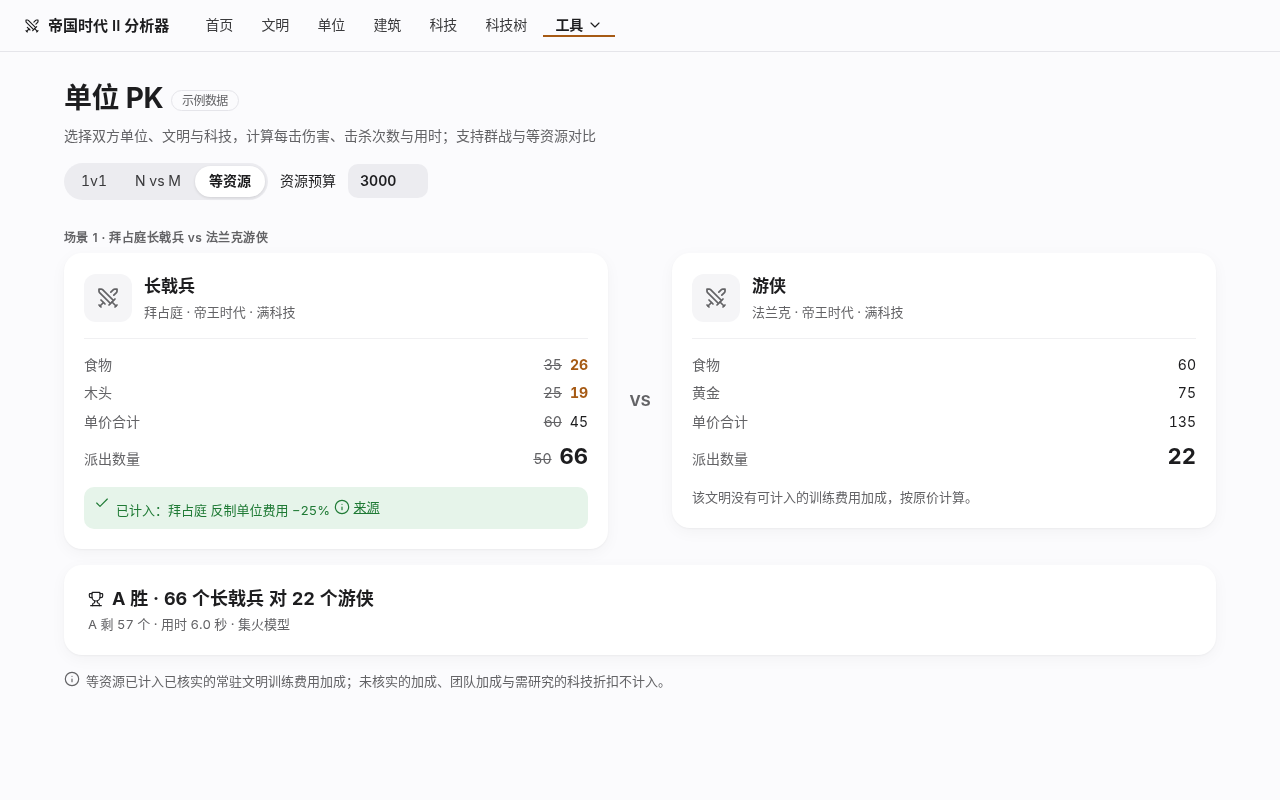
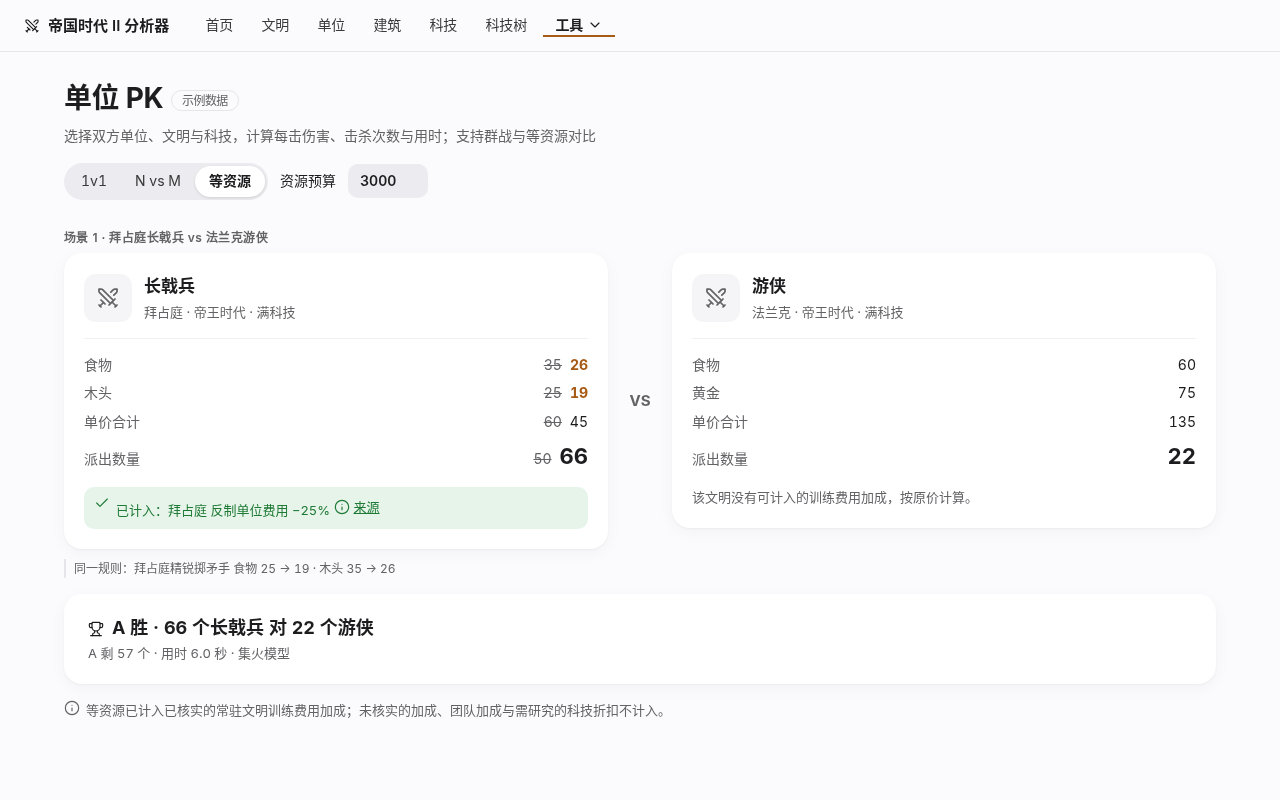
design(#24,#25): settle rounding — half-up, displayed price = computed price; .5 cases unverified → 未计入

Changed region(s): [[0.0625, 0.6875, 0.5, 0.9062]]

diff --git a/docs/design/mockups/issue24-v3/discount.html b/docs/design/mockups/issue24-v3/discount.html
@@ -31,4 +31,4 @@ table{width:100%;border-collapse:collapse;margin-top:16px;font-size:14px}th{text
 </style><style>.app{margin-top:10px;font-size:13px;display:flex;gap:6px;align-items:flex-start;background:#e6f4ea;color:#1f7a35;border-radius:10px;padding:8px 10px}.app a{color:#1f7a35;text-decoration:underline;display:inline-flex;gap:4px;align-items:center;min-height:24px}
 .na{margin-top:8px;font-size:13px;color:#3a3a3c;display:flex;gap:6px;align-items:flex-start;background:#f5f5f7;border-radius:10px;padding:8px 10px}.na small{display:block;color:#636366;font-size:12px}
 .pop h4{font-size:12px;color:#636366;margin:8px 0 4px;font-weight:600}.pop .it{display:flex;gap:6px;padding:4px 0}.pop .it small{display:block;color:#636366;font-size:12px}.pop .lk{display:inline-flex;gap:4px;align-items:center;margin-top:8px;min-height:44px}
-.stale{opacity:.45;filter:grayscale(1)}.stbar{display:flex;gap:8px;align-items:center;justify-content:space-between;background:#f5f5f7;border-radius:12px;padding:10px 14px;margin-top:16px;font-size:14px;color:#3a3a3c;flex-wrap:wrap}</style><body><header class=top><button class=burger><svg xmlns="http://www.w3.org/2000/svg" class="lu" viewBox="0 0 24 24" fill="none" stroke="currentColor" stroke-width="1.75" stroke-linecap="round" stroke-linejoin="round" class="lucide lucide-menu" aria-hidden="true"><path d="M4 5h16"></path><path d="M4 12h16"></path><path d="M4 19h16"></path></svg></button><span class=brand><svg xmlns="http://www.w3.org/2000/svg" class="lu" viewBox="0 0 24 24" fill="none" stroke="currentColor" stroke-width="1.75" stroke-linecap="round" stroke-linejoin="round" class="lucide lucide-swords" aria-hidden="true"><path d="m13 19 6-6"></path><path d="M14.5 17.5 3.586 6.586A2 2 0 013 5.172V3h2.172a2 2 0 011.414.586L17.5 14.5"></path><path d="m14.828 6.172 2.586-2.586A2 2 0 0118.828 3H21v2.172a2 2 0 01-.586 1.414l-2.586 2.586"></path><path d="m16 16 4 4"></path><path d="m19 21 2-2"></path><path d="m5 14 4 4"></path><path d="m5 21-2-2"></path><path d="M7.5 16.5 4 20"></path></svg>帝国时代 II 分析器</span><nav class=nav><a>首页</a><a>文明</a><a>单位</a><a>建筑</a><a>科技</a><a>科技树</a><a class=on>工具 <svg xmlns="http://www.w3.org/2000/svg" class="lu" viewBox="0 0 24 24" fill="none" stroke="currentColor" stroke-width="1.75" stroke-linecap="round" stroke-linejoin="round" class="lucide lucide-chevron-down" aria-hidden="true"><path d="m6 9 6 6 6-6"></path></svg></a></nav></header><main><h1>单位 PK<span class=ex>示例数据</span></h1><p class=desc>选择双方单位、文明与科技，计算每击伤害、击杀次数与用时；支持群战与等资源对比</p><div class=bar><span class=seg><span class="">1v1</span><span class="">N vs M</span><span class="on">等资源</span></span><span>资源预算</span><span class=inp>3000</span></div><p class=lbl>场景 1 · 拜占庭长戟兵 vs 法兰克游侠</p><div class=sides><div class=side><div class=sh><div class=ui><svg xmlns="http://www.w3.org/2000/svg" class="lu" viewBox="0 0 24 24" fill="none" stroke="currentColor" stroke-width="1.75" stroke-linecap="round" stroke-linejoin="round" class="lucide lucide-swords" aria-hidden="true"><path d="m13 19 6-6"></path><path d="M14.5 17.5 3.586 6.586A2 2 0 013 5.172V3h2.172a2 2 0 011.414.586L17.5 14.5"></path><path d="m14.828 6.172 2.586-2.586A2 2 0 0118.828 3H21v2.172a2 2 0 01-.586 1.414l-2.586 2.586"></path><path d="m16 16 4 4"></path><path d="m19 21 2-2"></path><path d="m5 14 4 4"></path><path d="m5 21-2-2"></path><path d="M7.5 16.5 4 20"></path></svg></div><div><h3>长戟兵</h3><small>拜占庭 · 帝王时代 · 满科技</small></div></div><div class=cost><div class=r><span class=k>食物</span><span><span class=old>35</span><span class=new>26</span></span></div><div class=r><span class=k>木头</span><span><span class=old>25</span><span class=new>19</span></span></div><div class=r><span class=k>单价合计</span><span><span class=old>60</span>45</span></div><div class=r><span class=k>派出数量</span><span><span class=old>50</span><b class=big>66</b></span></div></div><div class=app><svg xmlns="http://www.w3.org/2000/svg" class="lu" viewBox="0 0 24 24" fill="none" stroke="currentColor" stroke-width="1.75" stroke-linecap="round" stroke-linejoin="round" class="lucide lucide-check" aria-hidden="true"><path d="M20 6 9 17l-5-5"></path></svg><span>已计入：拜占庭 反制单位费用 −25% <a><svg xmlns="http://www.w3.org/2000/svg" class="lu" viewBox="0 0 24 24" fill="none" stroke="currentColor" stroke-width="1.75" stroke-linecap="round" stroke-linejoin="round" class="lucide lucide-info" aria-hidden="true"><circle cx="12" cy="12" r="10"></circle><path d="M12 16v-4"></path><path d="M12 8h.01"></path></svg>来源</a></span></div></div><div class=vs>VS</div><div class=side><div class=sh><div class=ui><svg xmlns="http://www.w3.org/2000/svg" class="lu" viewBox="0 0 24 24" fill="none" stroke="currentColor" stroke-width="1.75" stroke-linecap="round" stroke-linejoin="round" class="lucide lucide-swords" aria-hidden="true"><path d="m13 19 6-6"></path><path d="M14.5 17.5 3.586 6.586A2 2 0 013 5.172V3h2.172a2 2 0 011.414.586L17.5 14.5"></path><path d="m14.828 6.172 2.586-2.586A2 2 0 0118.828 3H21v2.172a2 2 0 01-.586 1.414l-2.586 2.586"></path><path d="m16 16 4 4"></path><path d="m19 21 2-2"></path><path d="m5 14 4 4"></path><path d="m5 21-2-2"></path><path d="M7.5 16.5 4 20"></path></svg></div><div><h3>游侠</h3><small>法兰克 · 帝王时代 · 满科技</small></div></div><div class=cost><div class=r><span class=k>食物</span><span>60</span></div><div class=r><span class=k>黄金</span><span>75</span></div><div class=r><span class=k>单价合计</span><span>135</span></div><div class=r><span class=k>派出数量</span><span><b class=big>22</b></span></div></div><div class=none>该文明没有可计入的训练费用加成，按原价计算。</div></div></div><div class=res><h3><svg xmlns="http://www.w3.org/2000/svg" class="lu" viewBox="0 0 24 24" fill="none" stroke="currentColor" stroke-width="1.75" stroke-linecap="round" stroke-linejoin="round" class="lucide lucide-trophy" aria-hidden="true"><path d="M10 14.66V17a1 1 0 0 1-1 1 2 2 0 0 0-2 2v2"></path><path d="M14 14.66V17a1 1 0 0 0 1 1 2 2 0 0 1 2 2v2"></path><path d="M17.916 10H19.5A2.5 2.5 0 0 0 22 7.5V5a1 1 0 0 0-1-1h-3"></path><path d="M4 22h16"></path><path d="M6 9a6 6 0 0 0 12 0V3a1 1 0 0 0-1-1H7a1 1 0 0 0-1 1z"></path><path d="M6.084 10H4.5A2.5 2.5 0 0 1 2 7.5V5a1 1 0 0 1 1-1h3"></path></svg>A 胜 · 66 个长戟兵 对 22 个游侠</h3><p class=note>A 剩 57 个 · 用时 6.0 秒 · 集火模型</p></div><div class=foot><svg xmlns="http://www.w3.org/2000/svg" class="lu" viewBox="0 0 24 24" fill="none" stroke="currentColor" stroke-width="1.75" stroke-linecap="round" stroke-linejoin="round" class="lucide lucide-info" aria-hidden="true"><circle cx="12" cy="12" r="10"></circle><path d="M12 16v-4"></path><path d="M12 8h.01"></path></svg><span>等资源已计入已核实的常驻文明训练费用加成；未核实的加成、团队加成与需研究的科技折扣不计入。</span></div></main>
+.stale{opacity:.45;filter:grayscale(1)}.stbar{display:flex;gap:8px;align-items:center;justify-content:space-between;background:#f5f5f7;border-radius:12px;padding:10px 14px;margin-top:16px;font-size:14px;color:#3a3a3c;flex-wrap:wrap}</style><body><header class=top><button class=burger><svg xmlns="http://www.w3.org/2000/svg" class="lu" viewBox="0 0 24 24" fill="none" stroke="currentColor" stroke-width="1.75" stroke-linecap="round" stroke-linejoin="round" class="lucide lucide-menu" aria-hidden="true"><path d="M4 5h16"></path><path d="M4 12h16"></path><path d="M4 19h16"></path></svg></button><span class=brand><svg xmlns="http://www.w3.org/2000/svg" class="lu" viewBox="0 0 24 24" fill="none" stroke="currentColor" stroke-width="1.75" stroke-linecap="round" stroke-linejoin="round" class="lucide lucide-swords" aria-hidden="true"><path d="m13 19 6-6"></path><path d="M14.5 17.5 3.586 6.586A2 2 0 013 5.172V3h2.172a2 2 0 011.414.586L17.5 14.5"></path><path d="m14.828 6.172 2.586-2.586A2 2 0 0118.828 3H21v2.172a2 2 0 01-.586 1.414l-2.586 2.586"></path><path d="m16 16 4 4"></path><path d="m19 21 2-2"></path><path d="m5 14 4 4"></path><path d="m5 21-2-2"></path><path d="M7.5 16.5 4 20"></path></svg>帝国时代 II 分析器</span><nav class=nav><a>首页</a><a>文明</a><a>单位</a><a>建筑</a><a>科技</a><a>科技树</a><a class=on>工具 <svg xmlns="http://www.w3.org/2000/svg" class="lu" viewBox="0 0 24 24" fill="none" stroke="currentColor" stroke-width="1.75" stroke-linecap="round" stroke-linejoin="round" class="lucide lucide-chevron-down" aria-hidden="true"><path d="m6 9 6 6 6-6"></path></svg></a></nav></header><main><h1>单位 PK<span class=ex>示例数据</span></h1><p class=desc>选择双方单位、文明与科技，计算每击伤害、击杀次数与用时；支持群战与等资源对比</p><div class=bar><span class=seg><span class="">1v1</span><span class="">N vs M</span><span class="on">等资源</span></span><span>资源预算</span><span class=inp>3000</span></div><p class=lbl>场景 1 · 拜占庭长戟兵 vs 法兰克游侠</p><div class=sides><div class=side><div class=sh><div class=ui><svg xmlns="http://www.w3.org/2000/svg" class="lu" viewBox="0 0 24 24" fill="none" stroke="currentColor" stroke-width="1.75" stroke-linecap="round" stroke-linejoin="round" class="lucide lucide-swords" aria-hidden="true"><path d="m13 19 6-6"></path><path d="M14.5 17.5 3.586 6.586A2 2 0 013 5.172V3h2.172a2 2 0 011.414.586L17.5 14.5"></path><path d="m14.828 6.172 2.586-2.586A2 2 0 0118.828 3H21v2.172a2 2 0 01-.586 1.414l-2.586 2.586"></path><path d="m16 16 4 4"></path><path d="m19 21 2-2"></path><path d="m5 14 4 4"></path><path d="m5 21-2-2"></path><path d="M7.5 16.5 4 20"></path></svg></div><div><h3>长戟兵</h3><small>拜占庭 · 帝王时代 · 满科技</small></div></div><div class=cost><div class=r><span class=k>食物</span><span><span class=old>35</span><span class=new>26</span></span></div><div class=r><span class=k>木头</span><span><span class=old>25</span><span class=new>19</span></span></div><div class=r><span class=k>单价合计</span><span><span class=old>60</span>45</span></div><div class=r><span class=k>派出数量</span><span><span class=old>50</span><b class=big>66</b></span></div></div><div class=app><svg xmlns="http://www.w3.org/2000/svg" class="lu" viewBox="0 0 24 24" fill="none" stroke="currentColor" stroke-width="1.75" stroke-linecap="round" stroke-linejoin="round" class="lucide lucide-check" aria-hidden="true"><path d="M20 6 9 17l-5-5"></path></svg><span>已计入：拜占庭 反制单位费用 −25% <a><svg xmlns="http://www.w3.org/2000/svg" class="lu" viewBox="0 0 24 24" fill="none" stroke="currentColor" stroke-width="1.75" stroke-linecap="round" stroke-linejoin="round" class="lucide lucide-info" aria-hidden="true"><circle cx="12" cy="12" r="10"></circle><path d="M12 16v-4"></path><path d="M12 8h.01"></path></svg>来源</a></span></div></div><div class=vs>VS</div><div class=side><div class=sh><div class=ui><svg xmlns="http://www.w3.org/2000/svg" class="lu" viewBox="0 0 24 24" fill="none" stroke="currentColor" stroke-width="1.75" stroke-linecap="round" stroke-linejoin="round" class="lucide lucide-swords" aria-hidden="true"><path d="m13 19 6-6"></path><path d="M14.5 17.5 3.586 6.586A2 2 0 013 5.172V3h2.172a2 2 0 011.414.586L17.5 14.5"></path><path d="m14.828 6.172 2.586-2.586A2 2 0 0118.828 3H21v2.172a2 2 0 01-.586 1.414l-2.586 2.586"></path><path d="m16 16 4 4"></path><path d="m19 21 2-2"></path><path d="m5 14 4 4"></path><path d="m5 21-2-2"></path><path d="M7.5 16.5 4 20"></path></svg></div><div><h3>游侠</h3><small>法兰克 · 帝王时代 · 满科技</small></div></div><div class=cost><div class=r><span class=k>食物</span><span>60</span></div><div class=r><span class=k>黄金</span><span>75</span></div><div class=r><span class=k>单价合计</span><span>135</span></div><div class=r><span class=k>派出数量</span><span><b class=big>22</b></span></div></div><div class=none>该文明没有可计入的训练费用加成，按原价计算。</div></div></div><p class=ann>同一规则：拜占庭精锐掷矛手 食物 25 → 19 · 木头 35 → 26</p><div class=res><h3><svg xmlns="http://www.w3.org/2000/svg" class="lu" viewBox="0 0 24 24" fill="none" stroke="currentColor" stroke-width="1.75" stroke-linecap="round" stroke-linejoin="round" class="lucide lucide-trophy" aria-hidden="true"><path d="M10 14.66V17a1 1 0 0 1-1 1 2 2 0 0 0-2 2v2"></path><path d="M14 14.66V17a1 1 0 0 0 1 1 2 2 0 0 1 2 2v2"></path><path d="M17.916 10H19.5A2.5 2.5 0 0 0 22 7.5V5a1 1 0 0 0-1-1h-3"></path><path d="M4 22h16"></path><path d="M6 9a6 6 0 0 0 12 0V3a1 1 0 0 0-1-1H7a1 1 0 0 0-1 1z"></path><path d="M6.084 10H4.5A2.5 2.5 0 0 1 2 7.5V5a1 1 0 0 1 1-1h3"></path></svg>A 胜 · 66 个长戟兵 对 22 个游侠</h3><p class=note>A 剩 57 个 · 用时 6.0 秒 · 集火模型</p></div><div class=foot><svg xmlns="http://www.w3.org/2000/svg" class="lu" viewBox="0 0 24 24" fill="none" stroke="currentColor" stroke-width="1.75" stroke-linecap="round" stroke-linejoin="round" class="lucide lucide-info" aria-hidden="true"><circle cx="12" cy="12" r="10"></circle><path d="M12 16v-4"></path><path d="M12 8h.01"></path></svg><span>等资源已计入已核实的常驻文明训练费用加成；未核实的加成、团队加成与需研究的科技折扣不计入。</span></div></main>

diff --git a/docs/design/mockups/issue24-v3/v3gen.py b/docs/design/mockups/issue24-v3/v3gen.py
@@ -20,7 +20,7 @@ W={}
 # S1 halb vs paladin
 a=side('swords','长戟兵','拜占庭',[('食物',o(35)+n('26')),('木头',o(25)+n('19'))],o(60)+'45',66,o(50),applied('拜占庭 反制单位费用 −25%'))
 b=side('swords','游侠','法兰克',[('食物','60'),('黄金','75')],'135',22,'',NONE)
-W['issue24-v3/discount']=P(head('等资源')+'<p class=lbl>场景 1 · 拜占庭长戟兵 vs 法兰克游侠</p>'+f'<div class=sides>{a}<div class=vs>VS</div>{b}</div>'+res('A 胜 · 66 个长戟兵 对 22 个游侠','A 剩 57 个 · 用时 6.0 秒 · 集火模型')+FOOT)
+W['issue24-v3/discount']=P(head('等资源')+'<p class=lbl>场景 1 · 拜占庭长戟兵 vs 法兰克游侠</p>'+f'<div class=sides>{a}<div class=vs>VS</div>{b}</div>'+'<p class=ann>同一规则：拜占庭精锐掷矛手 食物 25 → 19 · 木头 35 → 26</p>'+res('A 胜 · 66 个长戟兵 对 22 个游侠','A 剩 57 个 · 用时 6.0 秒 · 集火模型')+FOOT)
 # S4 magyar w/ popover
 pop=f'''<span class=pop style="top:auto;left:0;margin-top:6px;position:relative;display:block"><b>马扎尔 · 翼骑兵 的费用</b><h4>已计入</h4><div class=it>{ic("check")}<span>斥候骑兵系费用 −15%<small>食物 80 → 68</small></span></div><h4>不影响费用</h4><div class=it>{ic("info")}<span>锻造、铸铁、鼓风炉免费且瞬间完成，但仍需在铁匠铺研究<small>不改变数量与攻击数值</small></span></div><a class=lk>查看文明加成 {ic("arrow-right")}</a></span>'''
 a=side('swords','翼骑兵','马扎尔',[('食物',o(80)+n('68'))],o(80)+'68',44,o(37),applied('马扎尔 斥候骑兵系费用 −15%')+pop)

diff --git a/docs/design/mockups/issue24-v3/SPEC.md b/docs/design/mockups/issue24-v3/SPEC.md
@@ -1,12 +1,13 @@
 # #24 PK 等资源 · 文明折扣 · v3 交互规格（Jony）
 
-依据：Reid 场景 1–4；Kent .dat 核对（#24 comment 6106861642，DE 185872）；Steve 口径：**未核实的加成一律不计入**；取整：四舍五入（hongcun 游戏内确认，10/11）。
+依据：Reid 场景 1–4；Kent .dat 核对（#24 comment 6106861642，DE 185872）；Steve 口径：**未核实的加成一律不计入**；取整结论见第 1 节。
 
 ## 1. 折后价怎么标
 - 每种资源一行：原价 muted #636366 + 删除线，后接折后价（琥珀 #a65a14，700）。无折扣只显示原价。
-- **折后价按游戏规则四舍五入，显示整数**（hongcun 游戏内确认 10/11：拜占庭精锐掷矛手显示 19 食物 / 26 木头）。不加「约」。
+- **折后价四舍五入，显示价与计算用价为同一个数（hongcun 游戏内实测：拜占庭散兵 19 食物 / 26 木头）。**
+- 折后价恰好落在 .5 的情况尚未核实：由 Linus 列出涉及单位，核实前这些单位的折扣显示为「未计入」，不出数字。
   - 例：拜占庭精锐掷矛手 25F/35W ×0.75 = 18.75 / 26.25 → 19 / 26；长戟兵 35F/25W → 26.25 / 18.75 → 26 / 19；马扎尔翼骑兵 80F ×0.85 = 68。
-- 单价合计、派出数量按显示的整数价计算：长戟兵 26 + 19 = 45，3000 / 45 → 派出 66（向下取整）。实际扣费是 19 还是 18.75 仍在实测，若不同只改这一个常量。
+- 派出数量用同一个整数价：长戟兵 26 + 19 = 45，3000 / 45 → 派出 66（向下取整）。
 - 「已计入：{文明} {加成} −p%」绿底行 + 「来源」。**删除所有按时代分档的写法**（拜占庭是黑暗时代起统一 −25%，tech 284）。
 - 每视图琥珀数字 ≤ 2。
 - 界面上不出现「待核」「约」等字样。

diff --git a/docs/design/mockups/issue25-v3/SPEC.md b/docs/design/mockups/issue25-v3/SPEC.md
@@ -15,7 +15,8 @@
 - 任一参数改动后：顶部条「参数已变，请重新计算」+「重新计算」按钮；结果卡整体 45% 不透明度 + 灰度，不自动重算。1v1 入口同样适用。
 
 ## 价格口径（内部）
-- 盈亏平衡**目前按显示的整数价（四舍五入，hongcun 游戏内确认）计算**；游戏实际扣费是 19 还是 18.75 仍在实测，若不同只改这一个常量。UI 不显示任何「待核」字样。
+- 折后价四舍五入，显示价与计算用价为同一个数（hongcun 游戏内实测：拜占庭散兵 19 食物 / 26 木头）。盈亏平衡用的就是这个价。
+- 折后价恰好落在 .5 的情况尚未核实：由 Linus 列出涉及单位，核实前这些单位的折扣显示为「未计入」，不出数字。
 
 ## 样稿数字（main bb9ff17，满科技）
 - 场景 1：拜占庭长戟兵 vs 法兰克游侠 × 10 → N = 16（15 负 B 剩 1 / 16 胜 A 剩 5，18.0 秒 / 17 胜 A 剩 8）。
